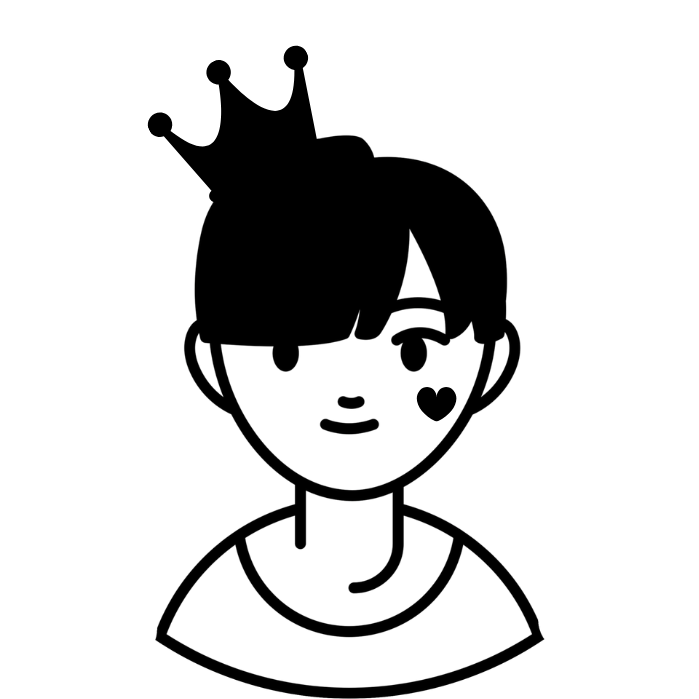
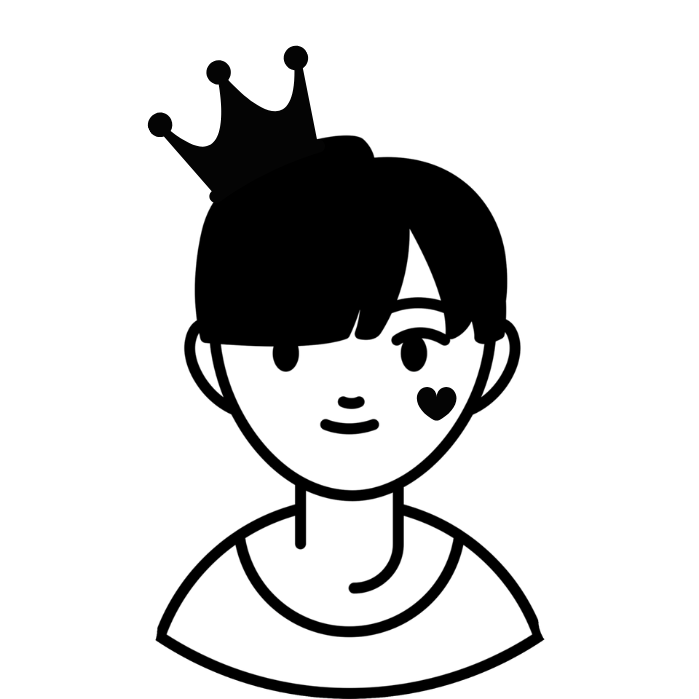
update special

diff --git a/css-ex/build_day/project.html b/css-ex/build_day/project.html
@@ -4,6 +4,7 @@
     <meta charset="UTF-8">
     <meta name="viewport" content="width=device-width, initial-scale=1.0">
     <title>P Pastry</title>
+
     <!-- Font Google Sans Code -->
     <link rel="preconnect" href="https://fonts.googleapis.com">
     <link rel="preconnect" href="https://fonts.gstatic.com" crossorigin>
@@ -11,24 +12,25 @@
     <link rel="stylesheet" href="project.css">
 </head>
 <body>
+
     <!-- HEADER -->
      <header class="header">
-        <div class="announcement-bar">
+        <aside class="announcement-bar">
         <span>ENJOY FREE DELIVERY WITH ALL ORDERS OVER THB1000 *</span>
         <span>ENJOY FREE DELIVERY WITH ALL ORDERS OVER THB1000 *</span>
         <span>ENJOY FREE DELIVERY WITH ALL ORDERS OVER THB1000 *</span>
-        </div>
+        </aside>
 
         <div class="header-container">
             <a href="#" class="header-logo">
-                <img src="logo.png" alt="p pastry logo"/>
+                <img src="logo.png" alt="P Pastry logo"/>
             </a>
 
             <nav class="nav-tab">
                 <div class="menu-wrapper">
-                <button type="button" class="menu-toggle" aria-label="open menu">
-                    <img src="more.png" alt="menu"/>
-                </button>
+                    <button type="button" class="menu-toggle" aria-label="open menu">
+                        <img src="more.png" alt="menu"/>
+                    </button>
 
                 <ul class="dropdown-menu">
                     <li><a href="#">CAKE</a></li>
@@ -51,80 +53,129 @@
 
                 <button type="button" class="search" aria-label="search">
                     <img src="search.png" alt="search"/>
-                    </a>
                 </button> 
             </nav>
             
-            <div class="header-actions">
+            <aside class="header-actions">
                 <a href="#" class="action-btn" aria-label="account">
-                <img src="membership.png" alt="membership"/>
+                    <img src="membership.png" alt="membership"/>
                 </a>
                 <a href="#" class="action-btn" aria-label="cart">
-                <img src="cart.png" alt="cart"/>
+                    <img src="cart.png" alt="cart"/>
                 </a>
-            </div>
+            </aside>
         </div>
      </header>
 
      <main>
     <!-- MENU -->
-        <section class="menu">
-        <div class="menu-content">
-            <div class="menu-card">
+     <section class="menu-content">
+        <a class="menu-card" href="#">
             <img src="./limited.png" alt="limited edition"/>
             <span class="card-title">LIMITED EDITION</span>
-            </div>
-            <div class="menu-card">
+        </a>
+        <a class="menu-card" href="#">
             <img src="./signature.png" alt="signature cake"/>
             <span class="card-title">SIGNATURE CAKES</span>
-            </div>
-            <div class="menu-card">
+        </a>
+        <a class="menu-card" href="#">
             <img src="./celebrate.png" alt="celebration"/>
             <span class="card-title">CELEBRATIONS</span>
-            </div>
-            <div class="menu-card">
+        </a>
+        <a class="menu-card" href="#">
             <img src="./pastry.png" alt="pastry"/>
             <span class="card-title">PASTRY</span>
-            </div>
+        </a>
         </div>
-        </section>
+     </section>
     <!-- HIGHLIGHT -->
-        <section class="highlight">
-        <div class="highlight-content">
+     <section class="highlight-content">
+        <a href="#" aria-label="highlight">
             <img src="highlight.png" alt="highlight" class="banner-img"/>
-        </div>
-        </section>
+        </a>
+     </section>
     <!-- SIGNATURE -->
-        <section class="signature">
-        <div class="signature-content">
+     <section class="signature">
+            <h3 class="section-header">SIGNATURE CAKES</h3>
 
-        </div>
-        </section>
+            <ul class="product-grid">
+                <li>
+                    <article class="product-card">
+                        <figure>
+                            <img src="signature1.png" alt="grandma plum cobbler"/>
+                        </figure>
+                        <span class="category">COBBLER</span>
+                        <h4>GRANDMA PLUM COBBLER</h4>
+                        <p class="price">THB 220</p>
+                    </article>
+                </li>
+
+                <li>
+                    <article class="product-card">
+                        <figure>
+                            <img src="signature2.png" alt="croissant"/>
+                        </figure>
+                        <span class="category">PASTRY</span>
+                        <h4>CUSTARD CROISSANT</h4>
+                        <p class="price">THB 85</p>
+                    </article>
+                </li>
+
+                <li>
+                    <article class="product-card">
+                        <figure>
+                            <img src="signature3.png" alt="cake"/>
+                        </figure>
+                        <span class="category">CAKE</span>
+                        <h4>CHOCOLATE LAVA CAKE</h4>
+                        <p class="price">THB 175</p>
+                    </article>
+                </li>
+
+                <li>
+                    <article class="product-card">
+                        <figure>
+                            <img src="signature4.png" alt="lamington"/>
+                        </figure>
+                        <span class="category">CAKE</span>
+                        <h4>LAMINGTON</h4>
+                        <p class="price">THB 125</p>
+                    </article>
+                </li>
+            </ul>
+     </section>
     <!-- SPECIAL -->
-        <section class="special">
-        <div class="special-content">
+     <section class="special">
+        <a href="#" class="special-card large">
+            <img src="tieredcakes.png" alt="tiered cakes"/>
+            <h2>TIERED CAKES</h2>
+        </a>
 
-        </div>
-        </section>
+        <a href="#" class="special-card">
+            <img src="apparel.png" alt="apparel"/>
+            <h2>APPAREL</h2>
+        </a>
+
+        <a href="#" class="special-card">
+            <img src="retail.png" alt="retail"/>
+            <h2>RETAIL</h2>
+        </a>
+     </section>
     <!-- STORES -->
-        <section class="stores">
-        <div class="stores-content">
-
-        </div>
-        </section>
+     <section class="stores">
+        
+     </section>
     <!-- MEMBER -->
-        <section class="member">
-        <div class="member-content">
+     <section class="member">
         <form class="newsletter-form">
             <input type="email" placeholder="Your email address" required>
             <button type="submit">Join</button>
         </form>
-        </div>
-        </section>
+     </section>
      </main>
     <!-- FOOTER -->
      <footer>
-
+        <p>&copy; 2026 P Pastry. All rights reserved.</p>
      </footer>
 </body>
 </html>

diff --git a/css-ex/build_day/project.css b/css-ex/build_day/project.css
@@ -2,11 +2,16 @@
     box-sizing: border-box;
     font-family: 'Google Sans Code', sans-serif;
 }
-ิbody {
+body {
     margin: 0;
+    background-image: url('bg.png');
+    background-attachment: fixed;
+    background-position: center;
+    background-repeat: no-repeat;
+    background-size: cover;
 }
 .announcement-bar {
-    padding: 6px 0;
+    padding: 10px 0;
     background-color: black;
     color: white;
     font-size: 12px;
@@ -19,7 +24,7 @@
     max-width: 1400px;
     margin: 0 auto;
     padding: 16px 64px;
-    background-color: white;    
+     
 }
 .header-logo img {
     display: block;
@@ -84,7 +89,7 @@
     gap: 16px 24px;
     width: 400px;
     padding: 28px 36px;
-    margin-top: 10px;
+    margin-top: 10px 0 0 0;
     background-color: black;
     border-radius: 20px;
     list-style: none;
@@ -143,11 +148,14 @@ main {
     display: grid;
     grid-template-columns: repeat(4,1fr);
     gap: 16px;
+    margin-top: 24px;
 }
 .menu-card {
+    display: block;
+    text-decoration: none;
     position:relative;
     height: 170px;
-    border: 2px solid black;
+    border: 3px solid black;
     border-radius: 16px;
     overflow:hidden;
     cursor: pointer;
@@ -178,7 +186,7 @@ main {
     width: 100%;
     height: 420px;
     margin: 40px auto 0 auto;
-    border: 2px solid black;
+    border: 3px solid black;
     border-radius: 16px;
     overflow: hidden;
 }
@@ -188,4 +196,88 @@ main {
     height: 100%;
     object-fit: cover;
     object-position: center;
+}
+.signature {
+    margin-top: 48px;
+}
+.signature .section-header {
+    font-size: 24px;
+    font-weight: 700;
+    margin-bottom: 20px;
+}
+.product-grid {
+    display: grid;
+    grid-template-columns: repeat(4, 1fr);
+    gap: 20px;
+    list-style: none;
+    padding: 0;
+    margin: 0;
+}
+.product-card figure {
+    margin: 0 0 6px 0;
+    border: 3px solid black;
+    border-radius: 16px;
+    overflow: hidden;
+    background-color: white;
+}
+.product-card figure img {
+    display: block;
+    width: 100%;
+    height: 220px;
+    object-fit: cover;
+}
+.product-card .category {
+    display: block;
+    font-size: 12px;
+
+}
+.product-card h4 {
+    font-size: 18px;
+    font-weight: 600;
+    margin: 2px 0 0 0;
+    line-height: 1.2;
+}
+.product-card .price {
+    font-size: 16px;
+    font-weight: 300;
+    margin: 2px 0 0 0;
+}
+.special {
+    display: grid;
+    grid-template-columns: 1fr 1fr;
+    grid-template-rows: repeat(2, 260px);
+    gap: 20px;
+    margin-top: 48px;
+}
+.special-card {
+    position: relative;
+    display: block;
+    text-decoration: none;
+    border: 3px solid black;
+    border-radius: 16px;
+    overflow: hidden;
+}
+.special-card.large {
+    grid-row: span 2;
+}
+.special-card img {
+    display: block;
+    width: 100%;
+    height: 100%;
+    transform: 0.3s ease
+}
+.special-card:hover img {
+    transform: scale(1.03);
+    filter: brightness(0.85);
+}
+.special-card h2 {
+    position: absolute;
+    top: 30%;
+    left: 50%;
+    transform: translate(-50%, -50%);
+    margin: 0;
+    color: white;
+    font-size: 32px;
+    font-weight: 500;
+    text-align: center;
 }